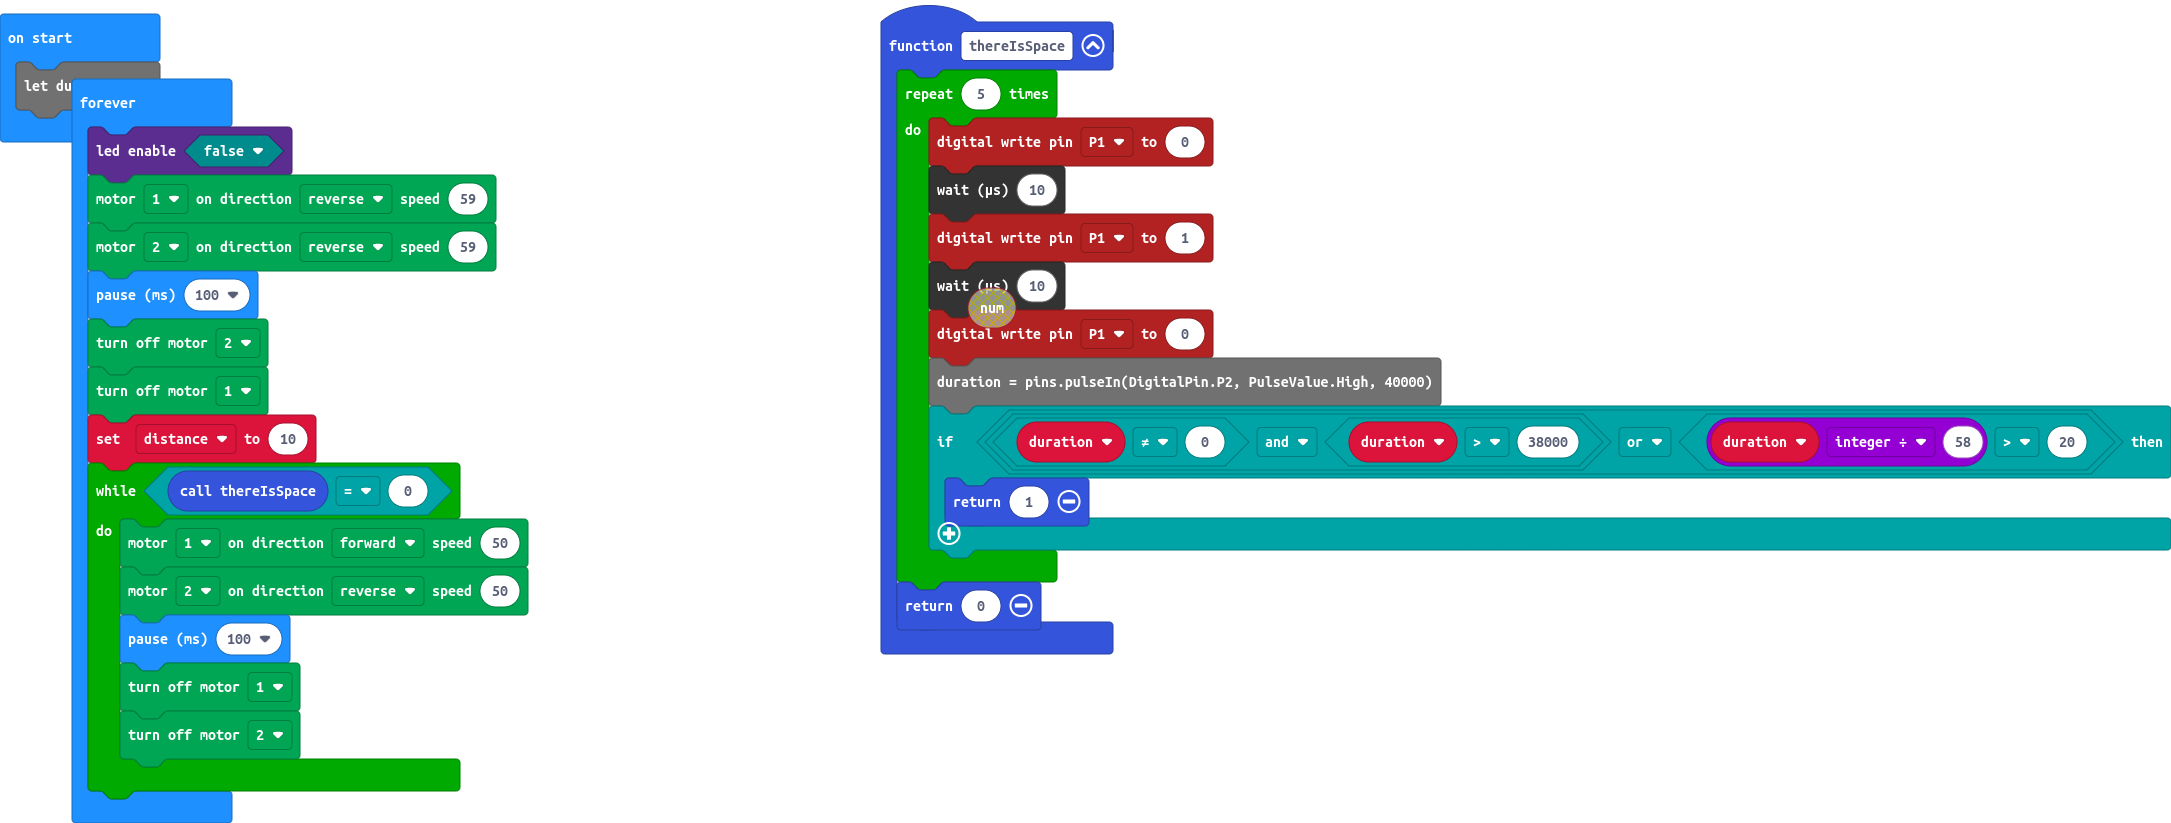
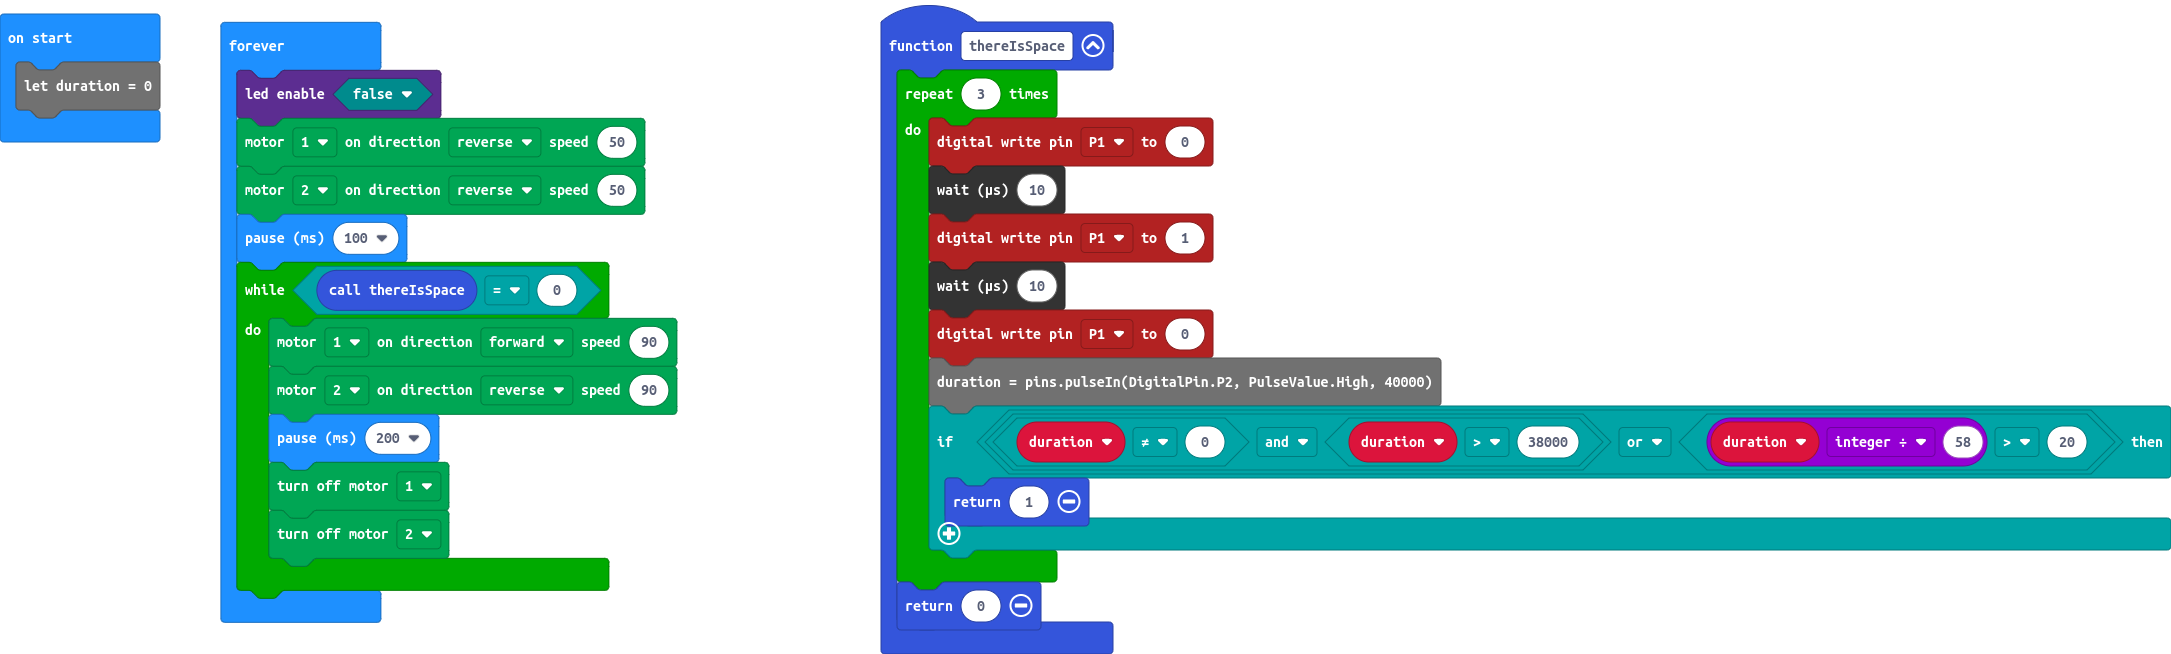
Decreased sample size and changed motor speed

diff --git a/main.ts b/main.ts
@@ -1,5 +1,5 @@
 function thereIsSpace () {
-    for (let index = 0; index < 5; index++) {
+    for (let index = 0; index < 3; index++) {
         pins.digitalWritePin(DigitalPin.P1, 0)
         control.waitMicros(10)
         pins.digitalWritePin(DigitalPin.P1, 1)
@@ -12,20 +12,16 @@ if (duration != 0 && duration > 38000 || Math.idiv(duration, 58) > 20) {
     }
     return 0
 }
-let distance = 0
 let duration = 0
 basic.forever(function () {
     led.enable(false)
-    kitronik_motor_driver.motorOn(kitronik_motor_driver.Motors.Motor1, kitronik_motor_driver.MotorDirection.Reverse, 59)
-    kitronik_motor_driver.motorOn(kitronik_motor_driver.Motors.Motor2, kitronik_motor_driver.MotorDirection.Reverse, 59)
+    kitronik_motor_driver.motorOn(kitronik_motor_driver.Motors.Motor1, kitronik_motor_driver.MotorDirection.Reverse, 50)
+    kitronik_motor_driver.motorOn(kitronik_motor_driver.Motors.Motor2, kitronik_motor_driver.MotorDirection.Reverse, 50)
     basic.pause(100)
-    kitronik_motor_driver.motorOff(kitronik_motor_driver.Motors.Motor2)
-    kitronik_motor_driver.motorOff(kitronik_motor_driver.Motors.Motor1)
-    distance = 10
     while (thereIsSpace() == 0) {
-        kitronik_motor_driver.motorOn(kitronik_motor_driver.Motors.Motor1, kitronik_motor_driver.MotorDirection.Forward, 50)
-        kitronik_motor_driver.motorOn(kitronik_motor_driver.Motors.Motor2, kitronik_motor_driver.MotorDirection.Reverse, 50)
-        basic.pause(100)
+        kitronik_motor_driver.motorOn(kitronik_motor_driver.Motors.Motor1, kitronik_motor_driver.MotorDirection.Forward, 90)
+        kitronik_motor_driver.motorOn(kitronik_motor_driver.Motors.Motor2, kitronik_motor_driver.MotorDirection.Reverse, 90)
+        basic.pause(200)
         kitronik_motor_driver.motorOff(kitronik_motor_driver.Motors.Motor1)
         kitronik_motor_driver.motorOff(kitronik_motor_driver.Motors.Motor2)
     }
